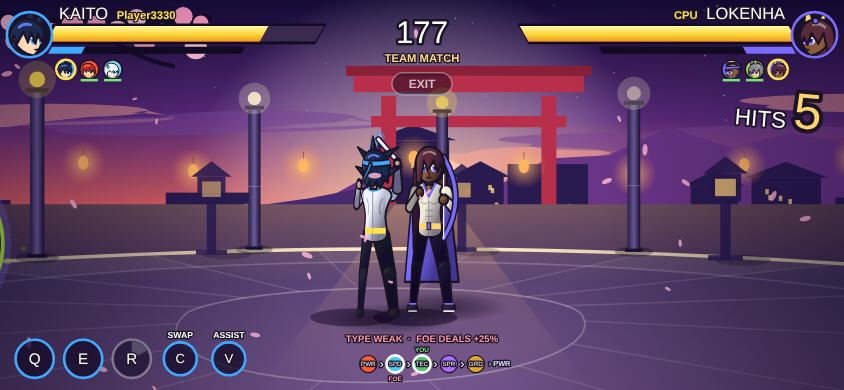
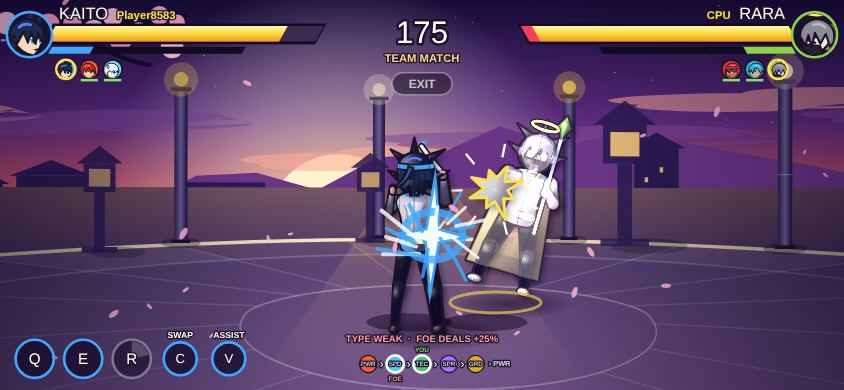
vol3d: fighters wrapped round a turning cylinder in the 3D view (staged)
Claude-Session: https://claude.ai/code/session_017cgwRBCAgYAgyBwMSYA7Tu

diff --git a/look.js b/look.js
@@ -1496,6 +1496,15 @@ try{window.COMBO_TITLE_CH=['KENKO','NETO']}catch(e){}
        const POSE=()=>{g.translate(f.x+ox,f.y+oy);if(rot)g.rotate(rot);g.scale(qx,qy);g.translate(-f.x,-f.y)};
        /* the body turns in depth: the striking side swings toward the target and the other shoulder drops back; a hit turns the body the other way */
        const tws=fat&&o.atk?o.atk.arm*(away?1:-1):((f.a3hn||0)%2?1:-1),twa=fat?lg*.3:fhu?clamp(1-el/.3,0,1)*.26:0;
+       /* flag "vol3d" (Trey: make movement and animation feel 3D instead of paper; own flag because 3D Battle View is released). The fighter is no longer a flat card that gets squashed: the drawing is wrapped round a cylinder and turned by an angle, so the side of the body that turns toward the camera widens and the side that turns away narrows and slides behind, with the middle of the chest moving across. The angle comes from what the fighter is doing: the turn between views, shoulders swinging with each running step, leaning into a circle, coiling back and whipping through on a strike, being spun by a hit, and a slow sway while standing. */
+       if(F().vol3d){const R=30,mp=(x,th)=>R*Math.sin(clamp(Math.asin(clamp(x/R,-1,1))+th,-Math.PI/2,Math.PI/2));
+        let th=fs*(1-q)*.9-tws*twa*1.7;if(mov&&!fat)th+=Math.sin(G.t*12)*.15-(f.a3c||0)*(away?1:-1)*.3;if(f.state==='dash')th+=dsg*.22;if(!mov&&!fat&&!fhu&&!fln&&!fdn)th+=Math.sin(G.t*1.6+f.side*1.3)*.08;if(fln)th+=Math.sin(el*7)*.35;th=clamp(th,-1.05,1.05);
+        const B=[-26,-13,0,13,26],c0=(mp(-26,th)+mp(26,th))/2,KS=sc*(1+(away?-.05:.09)*lg);
+        for(let i=0;i<4;i++){const xa=B[i],xb=B[i+1],ma=mp(xa,th)-c0,mb=mp(xb,th)-c0,ss=Math.max(.14,(mb-ma)/(xb-xa)),tt=ma-xa*ss,ca=i===0?-260:xa-.35,cw=(i===3?260:xb+.35)-ca;
+         const one=add=>{g.save();if(add){g.globalCompositeOperation='lighter';g.globalAlpha=.55*fl}POSE();g.translate(f.x,f.y-bob+(away?-7:8)*lg*sc);g.scale(KS,KS);g.translate(tt,0);g.scale(ss,1);
+          if(LY>.02){const far2=away?lerp(1,.74,LY):lerp(1,1.3,LY),fy2=away?lerp(1,.72,LY):lerp(1,1.15,LY);g.save();g.beginPath();g.rect(ca,-70,cw,170);g.clip();try{fn(f.c,o)}catch(e){}g.restore();g.translate(0,-70);g.scale(far2,fy2);g.translate(0,70);g.beginPath();g.rect(ca,-420,cw,350.6);g.clip();try{fn(f.c,o)}catch(e){}}
+          else{g.beginPath();g.rect(ca,-420,cw,520);g.clip();try{fn(f.c,o)}catch(e){}}g.restore()};one(0);if(fl>0)one(1)}}
+       else
        [1,-1].forEach(h=>{const k=(h===fs?far:near)*(twa?(h===tws?1+twa*.3:1-twa):1);const one=add=>{g.save();if(add){g.globalCompositeOperation='lighter';g.globalAlpha=.55*fl}POSE();g.translate(f.x+(fs*(near-far)*9*sc),f.y-bob+(away?-7:8)*lg*sc);g.scale(k*sc*(1+(away?-.05:.09)*lg),sc*(1+(away?-.05:.09)*lg));if(LY>.02){/* lying in depth: legs and upper body are drawn as two slices; the slice farther from the camera is smaller */const far2=away?lerp(1,.74,LY):lerp(1,1.3,LY),fy2=away?lerp(1,.72,LY):lerp(1,1.15,LY);
           g.save();g.beginPath();g.rect(h>0?0:-260,-70,260,170);g.clip();try{fn(f.c,o)}catch(e){}g.restore();
           g.translate(0,-70);g.scale(far2,fy2);g.translate(0,70);g.beginPath();g.rect(h>0?0:-260,-420,260,350.6);g.clip();try{fn(f.c,o)}catch(e){}}
